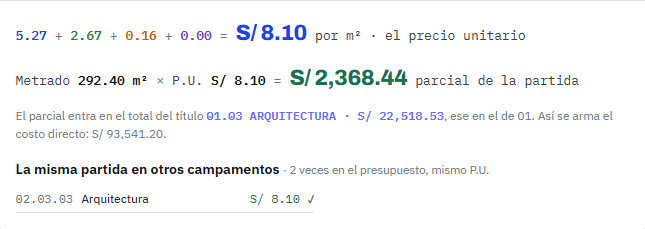
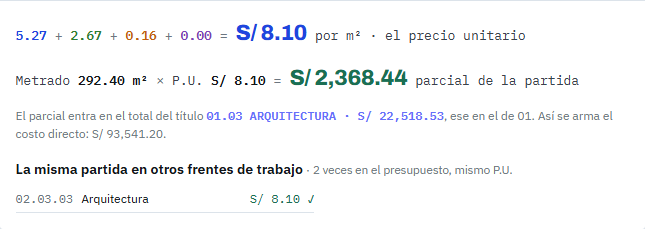
«Otros frentes de trabajo» en vez de «otros campamentos»

Changed region(s): [[0.2791, 0.7031, 0.8062, 0.7642]]

diff --git a/index.html b/index.html
@@ -513,9 +513,9 @@ function abrirTablero() {
   F.forEach(f => f.padre = f.item.includes('.') ? f.item.slice(0, f.item.lastIndexOf('.')) : null);
   F.forEach(f => { f.tieneHijos = false; });
   F.forEach(f => { if (f.padre && idx[f.padre] != null) F[idx[f.padre]].tieneHijos = true; });
-  // Campamento de cada partida: su título de nivel 2 (como el Excel del cuadro).
+  // Frente de trabajo de cada partida: su título de nivel 2.
   F.forEach(f => { const it2 = f.item.split('.').slice(0, 2).join('.'); const t = F[idx[it2]]; f.grupo = t && !t.esPartida ? t.descripcion : ''; });
-  // La misma partida en otros campamentos: mismo nombre y unidad.
+  // La misma partida en otros frentes de trabajo: mismo nombre y unidad.
   const gemelas = {};
   F.filter(f => f.esPartida).forEach(f => { const k = f.descripcion.trim().toUpperCase() + '|' + (f.unidad || '').toUpperCase(); (gemelas[k] ||= []).push(f); f.gemelas = gemelas[k]; });
 
@@ -787,7 +787,7 @@ function notaTitulo(f) {
 }
 function otrosCampamentos(f) {
   const otras = (f.gemelas || []).filter(g => g !== f);
-  if (!otras.length) return `<div class="otros"><h3>La misma partida en otros campamentos <small>· no se repite en el presupuesto</small></h3></div>`;
+  if (!otras.length) return `<div class="otros"><h3>La misma partida en otros frentes de trabajo <small>· no se repite en el presupuesto</small></h3></div>`;
   const pu = f.apu?.cu ?? f.precio;
   const dist = otras.filter(g => Math.abs((g.apu?.cu ?? g.precio) - pu) > 0.005).length;
   const lista = otras.map(g => {
@@ -795,7 +795,7 @@ function otrosCampamentos(f) {
     return `<li class="${distinto ? 'distinto' : ''}" data-ir="${porItemFila[g.item]}"><span class="it">${esc(g.item)}</span><span>${esc(titleCase(g.grupo || '—'))}</span>` +
       `<span class="pu2">S/ ${f2(p)}${distinto ? ` (${d > 0 ? '+' : ''}${f2(d)})` : ' ✓'}</span></li>`;
   }).join('');
-  return `<div class="otros"><h3>La misma partida en otros campamentos <small>· ${otras.length + 1} veces en el presupuesto, ` +
+  return `<div class="otros"><h3>La misma partida en otros frentes de trabajo <small>· ${otras.length + 1} veces en el presupuesto, ` +
     (dist ? `${dist} con otro P.U.` : 'mismo P.U.') + `</small></h3><ul>${lista}</ul></div>`;
 }
 

diff --git a/manual.html b/manual.html
@@ -146,11 +146,11 @@ footer{max-width:880px;margin:0 auto;padding:0 16px 32px;font-size:var(--t-aux);
       <div>
         <p><b>Dónde se usa un insumo:</b> clic en su nombre (por ejemplo CAPATAZ). Se abre un panel con su precio, en cuántas partidas está y la cantidad en cada una. Clic en una partida de la lista para ir a ella.</p>
         <p><b>Cierre del APU:</b> al final, la suma de categorías da el P.U., y <b>metrado × P.U.</b> da el parcial de la partida, que sube a su título hasta el costo directo.</p>
-        <p><b>La misma partida en otros campamentos:</b> lista las partidas con el mismo nombre y unidad. Si alguna tiene otro P.U., sale en ámbar con la diferencia: es lo primero que conviene revisar.</p>
+        <p><b>La misma partida en otros frentes de trabajo:</b> lista las partidas con el mismo nombre y unidad en los demás frentes de trabajo (los títulos de segundo nivel: módulos, sectores, campamentos…). Si alguna tiene otro P.U., sale en ámbar con la diferencia: es lo primero que conviene revisar.</p>
       </div>
       <figure style="margin:0"><img src="manual/7-donde-se-usa.png" alt="Panel Dónde se usa del capataz" loading="lazy"></figure>
     </div>
-    <figure><img src="manual/8-cierre.png" alt="Cierre del APU y la misma partida en otros campamentos" loading="lazy"></figure>
+    <figure><img src="manual/8-cierre.png" alt="Cierre del APU y la misma partida en otros frentes de trabajo" loading="lazy"></figure>
   </section>
 
   <p style="font-size:var(--t-aux);color:var(--gris);margin:0 0 16px">Las capturas son de un presupuesto de ejemplo inventado (Institución educativa de ejemplo); los precios no son reales.</p>
